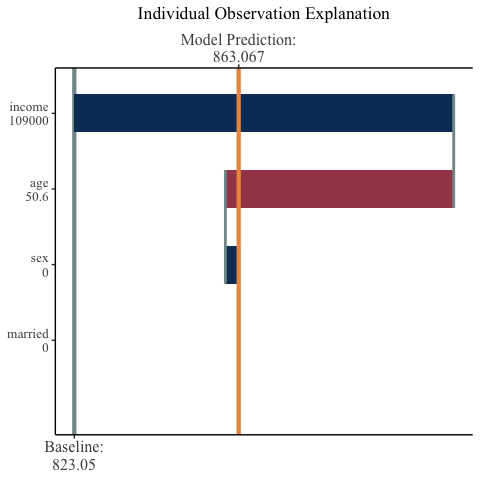
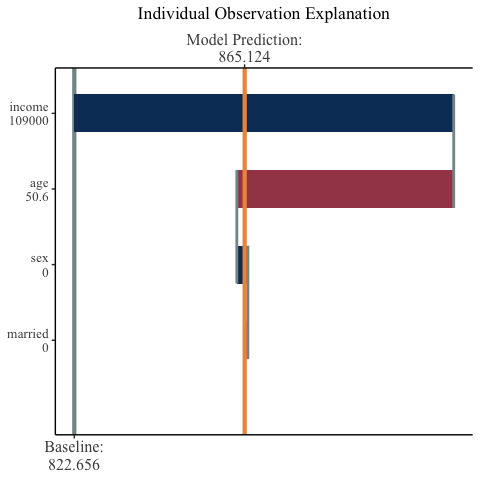
Slight updates to the README, added parameters to the summary plot function to make it more robust

Changed region(s): [[0.375, 0.0625, 0.625, 0.9062], [0.0938, 0.9375, 0.2188, 1.0]]

diff --git a/README.md b/README.md
@@ -4,6 +4,9 @@
 # mshap
 
 <!-- badges: start -->
+
+[![Travis build
+status](https://travis-ci.com/srmatth/mshap.svg?branch=main)](https://travis-ci.com/srmatth/mshap)
 <!-- badges: end -->
 
 The goal of mshap is to allow SHAP values for two-part models to be
@@ -123,17 +126,17 @@ final_shap <- mshap(
 
 head(final_shap$shap_vals)
 #> # A tibble: 6 x 4
-#>      V1    V2     V3    V4
-#>   <dbl> <dbl>  <dbl> <dbl>
-#> 1 -27.3 -374. -2.51  -7.23
-#> 2  49.5  627.  3.15  -7.46
-#> 3  12.6  532.  1.94   5.97
-#> 4  32.3 -437. -0.752 -5.45
-#> 5 -70.9  585. -0.743 -7.58
-#> 6  37.5  417. -0.830 -9.92
+#>       V1    V2     V3    V4
+#>    <dbl> <dbl>  <dbl> <dbl>
+#> 1 -29.4  -374. -1.51  -3.33
+#> 2  51.3   629.  1.78  -6.17
+#> 3   6.98  530.  2.19   4.83
+#> 4  31.9  -437.  0.189 -4.95
+#> 5 -70.4   581. -1.79  -6.01
+#> 6  36.8   421. -1.47  -9.00
 
 final_shap$expected_value
-#> [1] 823.05
+#> [1] 822.6563
 ```
 
 As a check, you can see that the expected value for mSHAP is indeed the
@@ -142,7 +145,7 @@ expected value of the model across the training data.
 ``` r
 ## R
 mean(py$tot_rev)
-#> [1] 823.05
+#> [1] 822.6563
 ```
 
 We now have calculated the mSHAP values for the multiplied model
